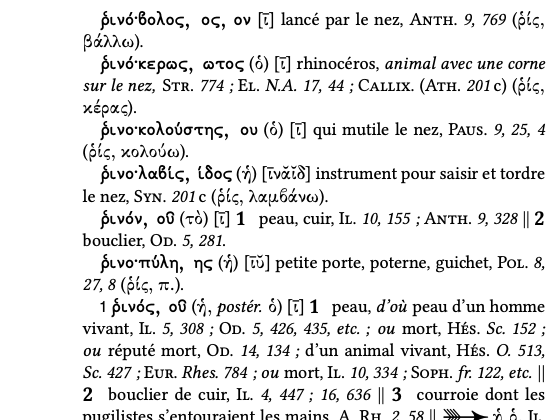
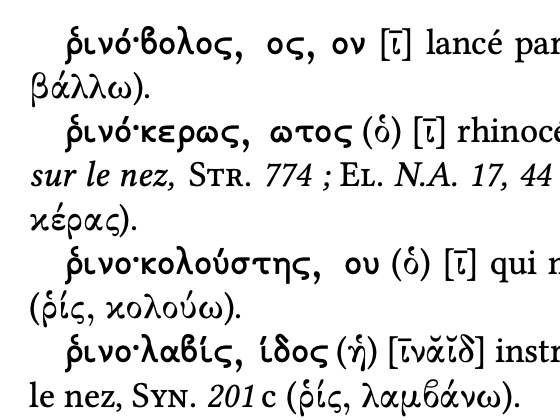
About page: the two pages' crops on the same entries, sharper
Both on ῥινόβολος to ῥινολαβίς, with a narrow left margin: the 2020 edition from a page at 200%, the 1935 facsimile enlarged twice (Lanczos) so that the browser doesn't blur it further; lossless WebP.

Claude-Session: https://claude.ai/code/session_01UFwyj6pM3hfMQWdvWaUnHC

Changed region(s): [[0.0304, 0.031, 1.0, 1.0], [0.7589, 0.4952, 0.9714, 0.5571]]

diff --git a/app/pages/à-propos.vue b/app/pages/à-propos.vue
@@ -371,8 +371,8 @@
             <div class="mx-auto aspect-[4/3] w-full max-w-sm bg-white overflow-hidden rounded-lg border border-(--rule-color) shadow-[0_0_0_4px_var(--app-page-bg),0_0_0_6px_var(--rule-color)] md:max-w-none">
               <img
                 src="/images/bailly-1935-rhinokeros.webp"
-                width="360"
-                height="270"
+                width="596"
+                height="448"
                 alt="L'entrée ῥινόκερως dans l'édition de 1935 (fac-similé)."
                 class="size-full object-cover"
               >
@@ -397,8 +397,8 @@
             <div class="mx-auto aspect-[4/3] w-full max-w-sm bg-white overflow-hidden rounded-lg border border-(--rule-color) shadow-[0_0_0_4px_var(--app-page-bg),0_0_0_6px_var(--rule-color)] md:max-w-none">
               <img
                 src="/images/bailly-2020-rhinokeros.webp"
-                width="400"
-                height="300"
+                width="560"
+                height="420"
                 alt="L'entrée ῥινόκερως dans l'édition PDF de 2020."
                 class="size-full object-cover"
               >
